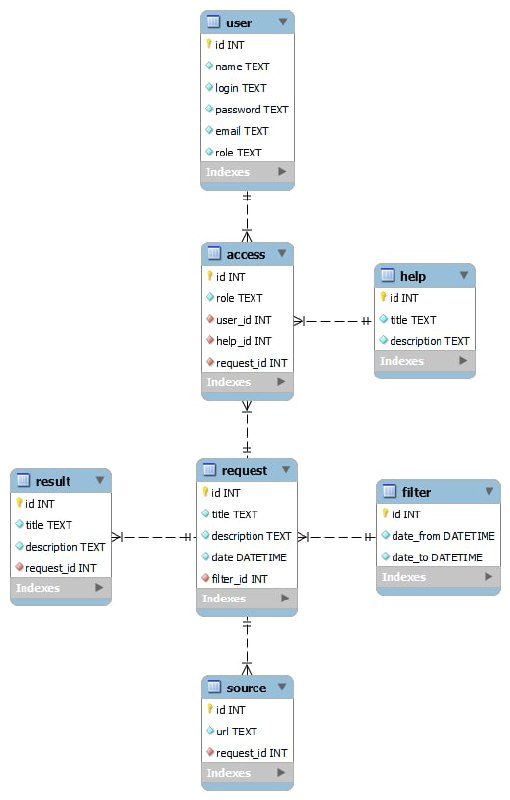
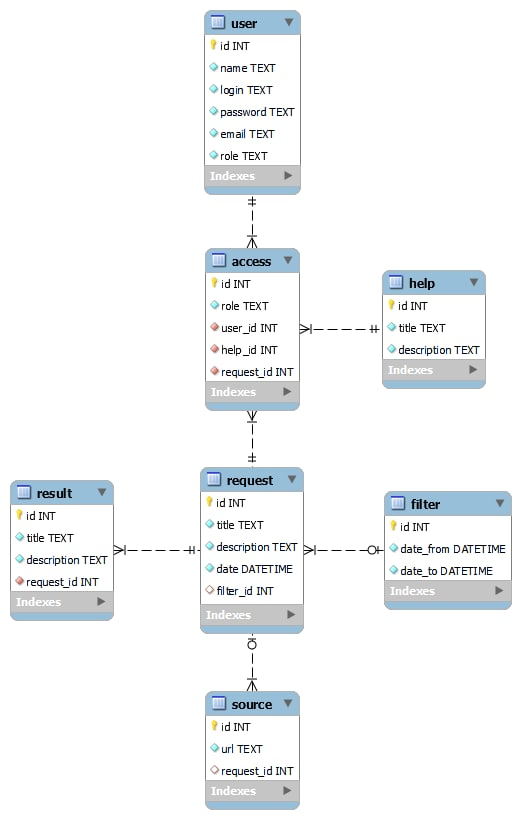
sql & schema changed

diff --git a/docs/software/README.md b/docs/software/README.md
@@ -3,6 +3,8 @@
 ## SQL-скрипт для створення та початкового наповнення бази даних
 
 ```
+-- MySQL Workbench Forward Engineering
+
 SET @OLD_UNIQUE_CHECKS=@@UNIQUE_CHECKS, UNIQUE_CHECKS=0;
 SET @OLD_FOREIGN_KEY_CHECKS=@@FOREIGN_KEY_CHECKS, FOREIGN_KEY_CHECKS=0;
 SET @OLD_SQL_MODE=@@SQL_MODE, SQL_MODE='ONLY_FULL_GROUP_BY,STRICT_TRANS_TABLES,NO_ZERO_IN_DATE,NO_ZERO_DATE,ERROR_FOR_DIVISION_BY_ZERO,NO_ENGINE_SUBSTITUTION';
@@ -10,137 +12,184 @@ SET @OLD_SQL_MODE=@@SQL_MODE, SQL_MODE='ONLY_FULL_GROUP_BY,STRICT_TRANS_TABLES,N
 -- -----------------------------------------------------
 -- Schema Media-content-analyze-system
 -- -----------------------------------------------------
+DROP SCHEMA IF EXISTS `Media-content-analyze-system` ;
 
 -- -----------------------------------------------------
 -- Schema Media-content-analyze-system
 -- -----------------------------------------------------
-CREATE SCHEMA IF NOT EXISTS Media-content-analyze-system DEFAULT CHARACTER SET utf8 ;
-USE Media-content-analyze-system ;
+CREATE SCHEMA IF NOT EXISTS `Media-content-analyze-system` DEFAULT CHARACTER SET utf8 ;
+USE `Media-content-analyze-system` ;
 
 -- -----------------------------------------------------
--- Table Media-content-analyze-system.user
+-- Table `Media-content-analyze-system`.`user`
 -- -----------------------------------------------------
-CREATE TABLE IF NOT EXISTS Media-content-analyze-system.user (
-  id INT NOT NULL,
-  name TEXT NOT NULL,
-  login TEXT NOT NULL,
-  password TEXT NOT NULL,
-  email TEXT NOT NULL,
-  role TEXT NOT NULL,
-  PRIMARY KEY (id))
+DROP TABLE IF EXISTS `Media-content-analyze-system`.`user` ;
+
+CREATE TABLE IF NOT EXISTS `Media-content-analyze-system`.`user` (
+  `id` INT NOT NULL AUTO_INCREMENT,
+  `name` TEXT NOT NULL,
+  `login` TEXT NOT NULL,
+  `password` TEXT NOT NULL,
+  `email` TEXT NOT NULL,
+  `role` TEXT NOT NULL,
+  PRIMARY KEY (`id`))
 ENGINE = InnoDB;
 
 
 -- -----------------------------------------------------
--- Table Media-content-analyze-system.help
+-- Table `Media-content-analyze-system`.`help`
 -- -----------------------------------------------------
-CREATE TABLE IF NOT EXISTS Media-content-analyze-system.help (
-  id INT NOT NULL,
-  title TEXT NOT NULL,
-  description TEXT NOT NULL,
-  PRIMARY KEY (id))
+DROP TABLE IF EXISTS `Media-content-analyze-system`.`help` ;
+
+CREATE TABLE IF NOT EXISTS `Media-content-analyze-system`.`help` (
+  `id` INT NOT NULL,
+  `title` TEXT NOT NULL,
+  `description` TEXT NOT NULL,
+  PRIMARY KEY (`id`))
 ENGINE = InnoDB;
 
 
 -- -----------------------------------------------------
--- Table Media-content-analyze-system.filter
+-- Table `Media-content-analyze-system`.`filter`
 -- -----------------------------------------------------
-CREATE TABLE IF NOT EXISTS Media-content-analyze-system.filter (
-  id INT NOT NULL,
-  date_from DATETIME NOT NULL,
-  date_to DATETIME NOT NULL,
-  PRIMARY KEY (id))
+DROP TABLE IF EXISTS `Media-content-analyze-system`.`filter` ;
+
+CREATE TABLE IF NOT EXISTS `Media-content-analyze-system`.`filter` (
+  `id` INT NOT NULL,
+  `date_from` DATETIME NOT NULL,
+  `date_to` DATETIME NOT NULL,
+  PRIMARY KEY (`id`))
 ENGINE = InnoDB;
 
 
 -- -----------------------------------------------------
--- Table Media-content-analyze-system.request
+-- Table `Media-content-analyze-system`.`request`
 -- -----------------------------------------------------
-CREATE TABLE IF NOT EXISTS Media-content-analyze-system.request (
-  id INT NOT NULL,
-  title TEXT NOT NULL,
-  description TEXT NOT NULL,
-  date DATETIME NOT NULL,
-  filter_id INT NOT NULL,
-  PRIMARY KEY (id),
-  INDEX fk_request_filter1_idx (filter_id ASC) VISIBLE,
-  CONSTRAINT fk_request_filter1
-    FOREIGN KEY (filter_id)
-    REFERENCES Media-content-analyze-system.filter (id)
+DROP TABLE IF EXISTS `Media-content-analyze-system`.`request` ;
+
+CREATE TABLE IF NOT EXISTS `Media-content-analyze-system`.`request` (
+  `id` INT NOT NULL AUTO_INCREMENT,
+  `title` TEXT NOT NULL,
+  `description` TEXT NOT NULL,
+  `date` DATETIME NOT NULL,
+  `filter_id` INT NULL,
+  PRIMARY KEY (`id`),
+  INDEX `fk_request_filter1_idx` (`filter_id` ASC) VISIBLE,
+  CONSTRAINT `fk_request_filter1`
+    FOREIGN KEY (`filter_id`)
+    REFERENCES `Media-content-analyze-system`.`filter` (`id`)
     ON DELETE NO ACTION
     ON UPDATE NO ACTION)
 ENGINE = InnoDB;
 
 
 -- -----------------------------------------------------
--- Table Media-content-analyze-system.access
+-- Table `Media-content-analyze-system`.`access`
 -- -----------------------------------------------------
-CREATE TABLE IF NOT EXISTS Media-content-analyze-system.access (
-  id INT NOT NULL,
-  role TEXT NOT NULL,
-  user_id INT NOT NULL,
-  help_id INT NOT NULL,
-  request_id INT NOT NULL,
-  PRIMARY KEY (id),
-  INDEX fk_access_User_idx (user_id ASC) VISIBLE,
-  INDEX fk_Access_Help1_idx (help_id ASC) VISIBLE,
-  INDEX fk_access_request1_idx (request_id ASC) VISIBLE,
-  CONSTRAINT fk_access_User
-    FOREIGN KEY (user_id)
-    REFERENCES Media-content-analyze-system.user (id)
+DROP TABLE IF EXISTS `Media-content-analyze-system`.`access` ;
+
+CREATE TABLE IF NOT EXISTS `Media-content-analyze-system`.`access` (
+  `id` INT NOT NULL,
+  `role` TEXT NOT NULL,
+  `user_id` INT NOT NULL,
+  `help_id` INT NOT NULL,
+  `request_id` INT NOT NULL,
+  PRIMARY KEY (`id`),
+  INDEX `fk_access_User_idx` (`user_id` ASC) VISIBLE,
+  INDEX `fk_Access_Help1_idx` (`help_id` ASC) VISIBLE,
+  INDEX `fk_access_request1_idx` (`request_id` ASC) VISIBLE,
+  CONSTRAINT `fk_access_User`
+    FOREIGN KEY (`user_id`)
+    REFERENCES `Media-content-analyze-system`.`user` (`id`)
     ON DELETE NO ACTION
     ON UPDATE NO ACTION,
-  CONSTRAINT fk_Access_Help1
-    FOREIGN KEY (help_id)
-    REFERENCES Media-content-analyze-system.help (id)
+  CONSTRAINT `fk_Access_Help1`
+    FOREIGN KEY (`help_id`)
+    REFERENCES `Media-content-analyze-system`.`help` (`id`)
     ON DELETE NO ACTION
     ON UPDATE NO ACTION,
-  CONSTRAINT fk_access_request1
-    FOREIGN KEY (request_id)
-    REFERENCES Media-content-analyze-system.request (id)
+  CONSTRAINT `fk_access_request1`
+    FOREIGN KEY (`request_id`)
+    REFERENCES `Media-content-analyze-system`.`request` (`id`)
     ON DELETE NO ACTION
     ON UPDATE NO ACTION)
 ENGINE = InnoDB;
 
 
 -- -----------------------------------------------------
--- Table Media-content-analyze-system.result
+-- Table `Media-content-analyze-system`.`result`
 -- -----------------------------------------------------
-CREATE TABLE IF NOT EXISTS Media-content-analyze-system.result (
-  id INT NOT NULL,
-  title TEXT NOT NULL,
-  description TEXT NOT NULL,
-  request_id INT NOT NULL,
-  PRIMARY KEY (id),
-  INDEX fk_result_request1_idx (request_id ASC) VISIBLE,
-  CONSTRAINT fk_result_request1
-    FOREIGN KEY (request_id)
-    REFERENCES Media-content-analyze-system.request (id)
+DROP TABLE IF EXISTS `Media-content-analyze-system`.`result` ;
+
+CREATE TABLE IF NOT EXISTS `Media-content-analyze-system`.`result` (
+  `id` INT NOT NULL,
+  `title` TEXT NOT NULL,
+  `description` TEXT NOT NULL,
+  `request_id` INT NOT NULL,
+  PRIMARY KEY (`id`),
+  INDEX `fk_result_request1_idx` (`request_id` ASC) VISIBLE,
+  CONSTRAINT `fk_result_request1`
+    FOREIGN KEY (`request_id`)
+    REFERENCES `Media-content-analyze-system`.`request` (`id`)
     ON DELETE NO ACTION
     ON UPDATE NO ACTION)
 ENGINE = InnoDB;
 
 
 -- -----------------------------------------------------
--- Table Media-content-analyze-system.source
+-- Table `Media-content-analyze-system`.`source`
 -- -----------------------------------------------------
-CREATE TABLE IF NOT EXISTS Media-content-analyze-system.source (
-  id INT NOT NULL,
-  url TEXT NOT NULL,
-  request_id INT NOT NULL,
-  PRIMARY KEY (id),
-  INDEX fk_source_request1_idx (request_id ASC) VISIBLE,
-  CONSTRAINT fk_source_request1
-    FOREIGN KEY (request_id)
-    REFERENCES Media-content-analyze-system.request (id)
+DROP TABLE IF EXISTS `Media-content-analyze-system`.`source` ;
+
+CREATE TABLE IF NOT EXISTS `Media-content-analyze-system`.`source` (
+  `id` INT NOT NULL AUTO_INCREMENT,
+  `url` TEXT NOT NULL,
+  `request_id` INT NULL,
+  PRIMARY KEY (`id`),
+  INDEX `fk_source_request1_idx` (`request_id` ASC) VISIBLE,
+  CONSTRAINT `fk_source_request1`
+    FOREIGN KEY (`request_id`)
+    REFERENCES `Media-content-analyze-system`.`request` (`id`)
     ON DELETE NO ACTION
     ON UPDATE NO ACTION)
 ENGINE = InnoDB;
- 
+
 
 SET SQL_MODE=@OLD_SQL_MODE;
 SET FOREIGN_KEY_CHECKS=@OLD_FOREIGN_KEY_CHECKS;
 SET UNIQUE_CHECKS=@OLD_UNIQUE_CHECKS;
+
+-- -----------------------------------------------------
+-- Data for table `Media-content-analyze-system`.`user`
+-- -----------------------------------------------------
+START TRANSACTION;
+USE `Media-content-analyze-system`;
+INSERT INTO `Media-content-analyze-system`.`user` (`id`, `name`, `login`, `password`, `email`, `role`) VALUES (DEFAULT, 'John', 'JohnRoth', 'passw123', 'j@email.com', 'public');
+INSERT INTO `Media-content-analyze-system`.`user` (`id`, `name`, `login`, `password`, `email`, `role`) VALUES (DEFAULT, 'Kate', 'KateDotson', 'passw124', 'k@email.com', 'public');
+
+COMMIT;
+
+
+-- -----------------------------------------------------
+-- Data for table `Media-content-analyze-system`.`request`
+-- -----------------------------------------------------
+START TRANSACTION;
+USE `Media-content-analyze-system`;
+INSERT INTO `Media-content-analyze-system`.`request` (`id`, `title`, `description`, `date`, `filter_id`) VALUES (DEFAULT, 'Text search query ', 'breaking news around the world', '2022-12-02', NULL);
+INSERT INTO `Media-content-analyze-system`.`request` (`id`, `title`, `description`, `date`, `filter_id`) VALUES (DEFAULT, 'Photo search query', 'find similar images', '2022-11-20', NULL);
+
+COMMIT;
+
+
+-- -----------------------------------------------------
+-- Data for table `Media-content-analyze-system`.`source`
+-- -----------------------------------------------------
+START TRANSACTION;
+USE `Media-content-analyze-system`;
+INSERT INTO `Media-content-analyze-system`.`source` (`id`, `url`, `request_id`) VALUES (DEFAULT, 'https://www.nytimes.com/', NULL);
+INSERT INTO `Media-content-analyze-system`.`source` (`id`, `url`, `request_id`) VALUES (DEFAULT, 'https://images.google.com/', NULL);
+
+COMMIT;
 ```
 
 ## RESTfull сервіс для управління даними
